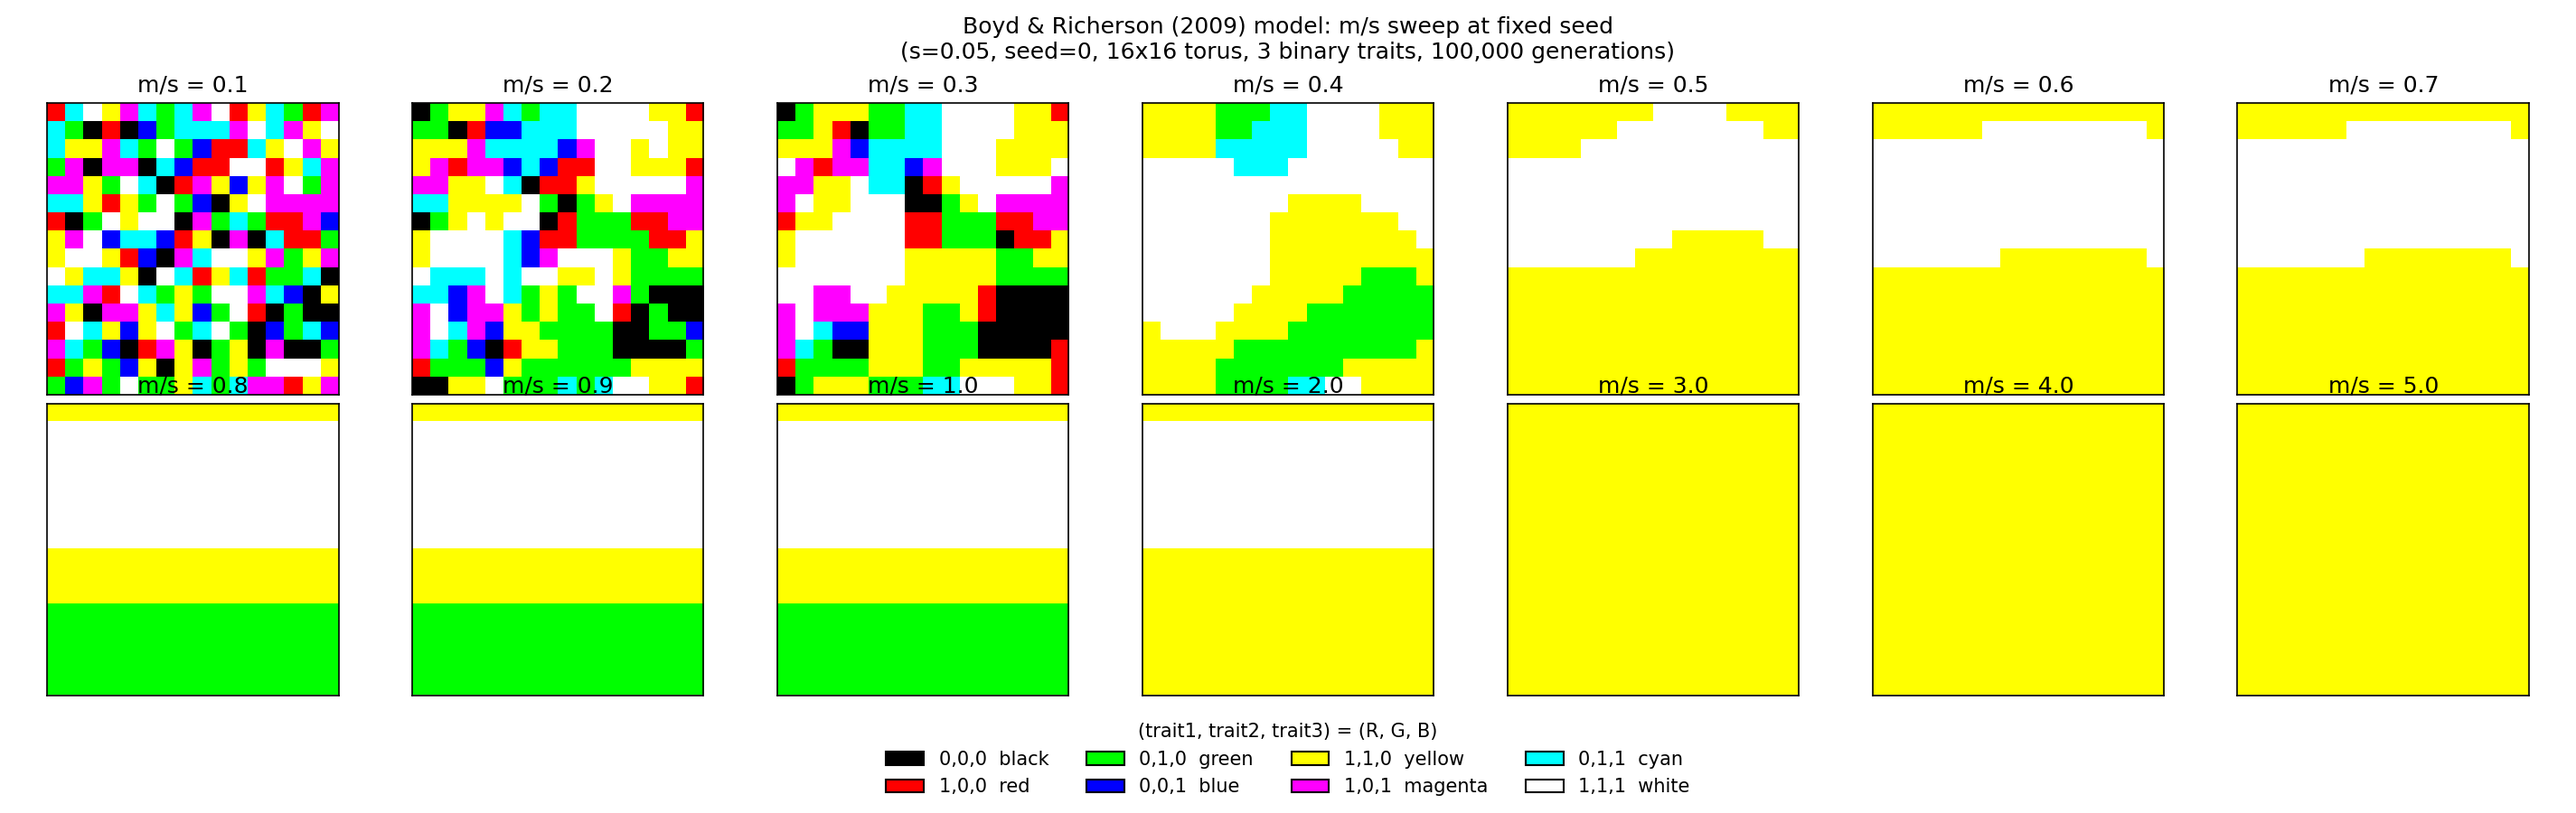
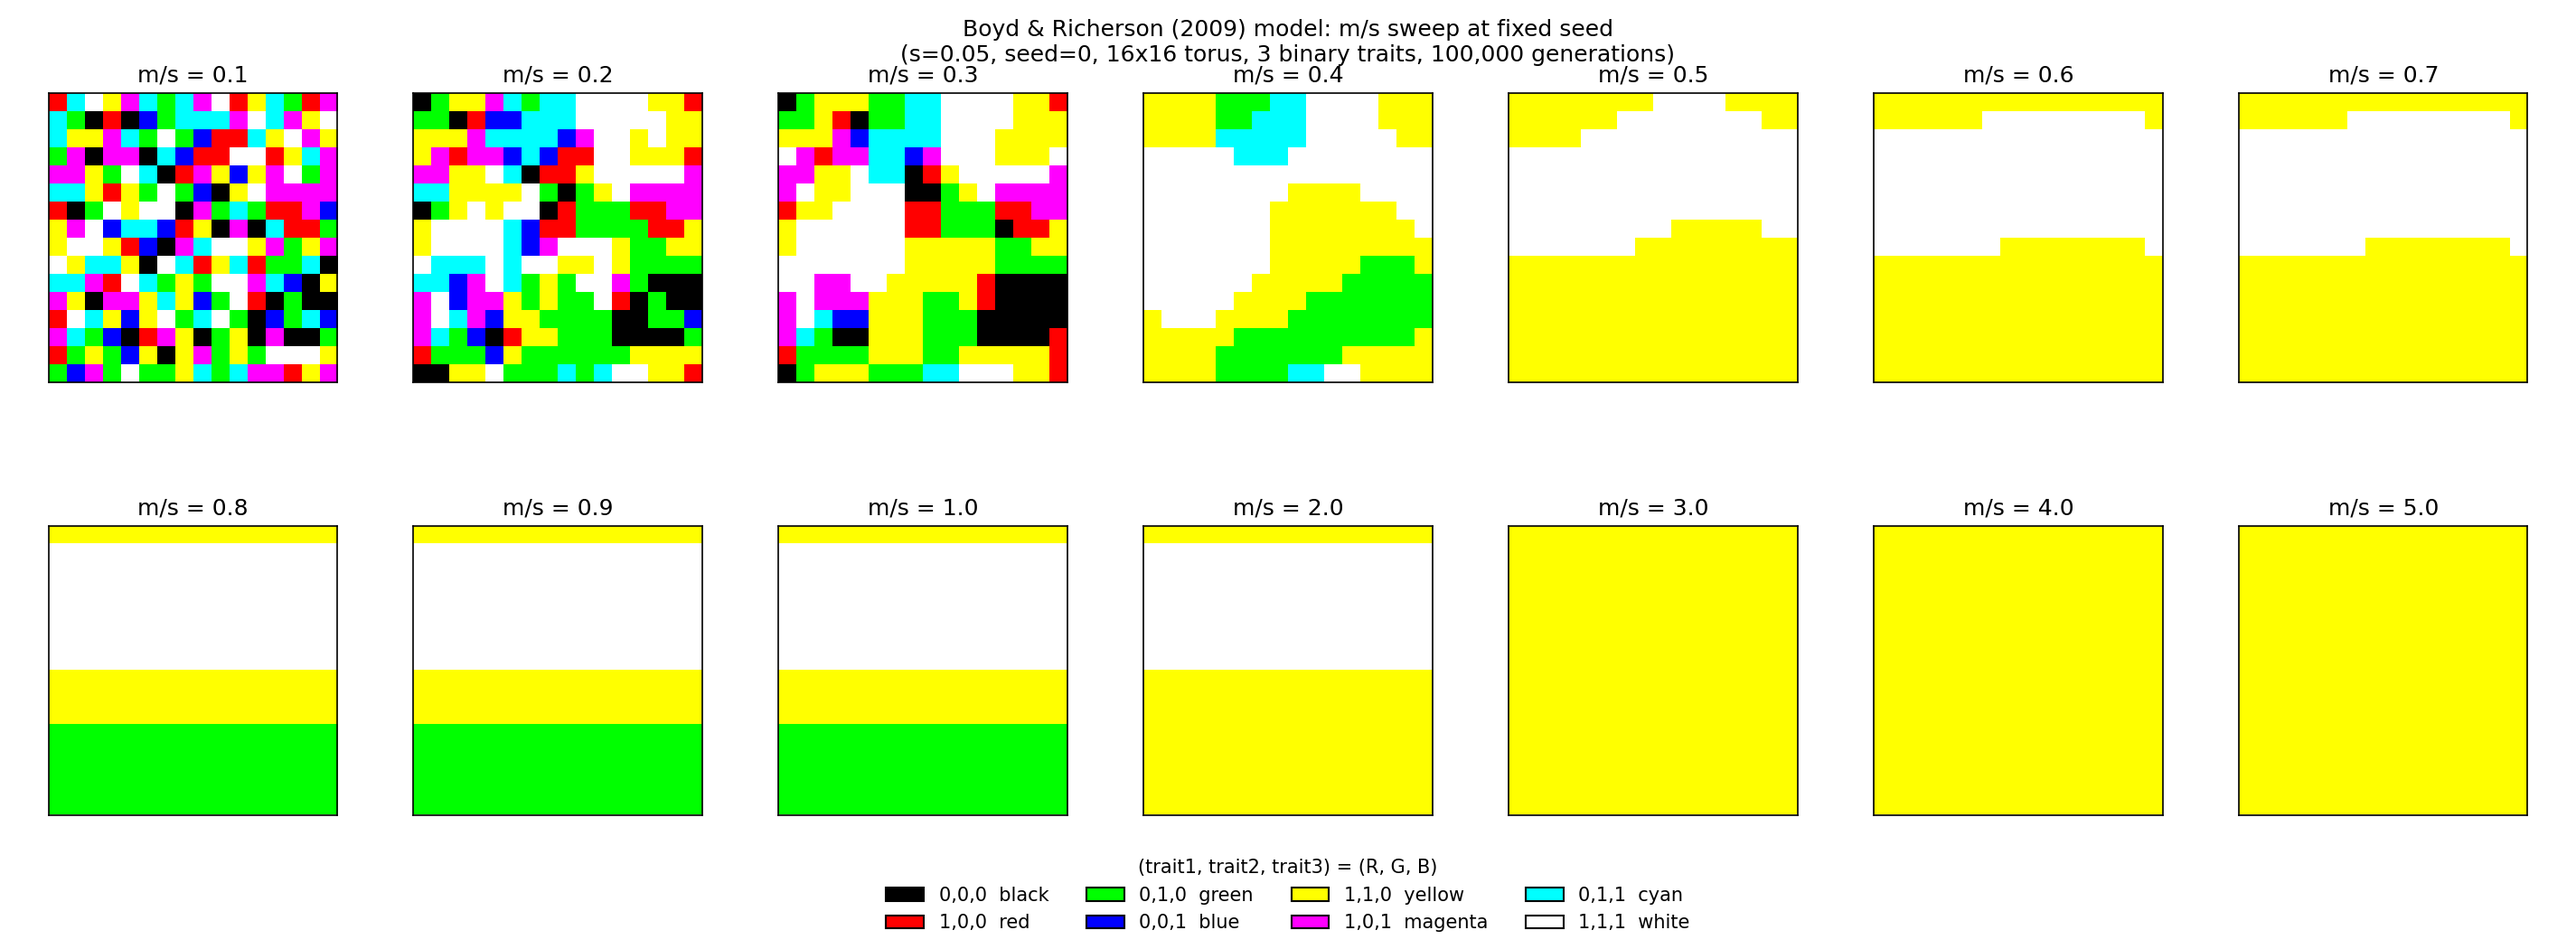
Fix row-title overlap in ratio sweep figure
Row 2 titles (m/s=0.8 etc.) were overlapping row 1's plots. Increased
figure height and added explicit hspace after tight_layout (which
subplots_adjust must follow, not precede, to take effect).

diff --git a/generate_ratio_sweep.py b/generate_ratio_sweep.py
@@ -30,7 +30,7 @@ RATIOS = [round(i / 10, 1) for i in range(1, 11)] + [2.0, 3.0, 4.0, 5.0]
 
 
 def main() -> None:
-    fig, axes = plt.subplots(2, 7, figsize=(19, 6))
+    fig, axes = plt.subplots(2, 7, figsize=(19, 7))
     for ax, ratio in zip(axes.flat, RATIOS):
         m = S * ratio
         freqs = simulate(s=S, m=m, generations=GENERATIONS, seed=SEED)
@@ -49,6 +49,7 @@ def main() -> None:
         f"{GENERATIONS:,} generations)"
     )
     fig.tight_layout(rect=(0, 0.12, 1, 1))
+    fig.subplots_adjust(hspace=0.5)
     add_trait_legend(fig)
     out_dir = Path(__file__).parent / "output"
     out_dir.mkdir(exist_ok=True)
